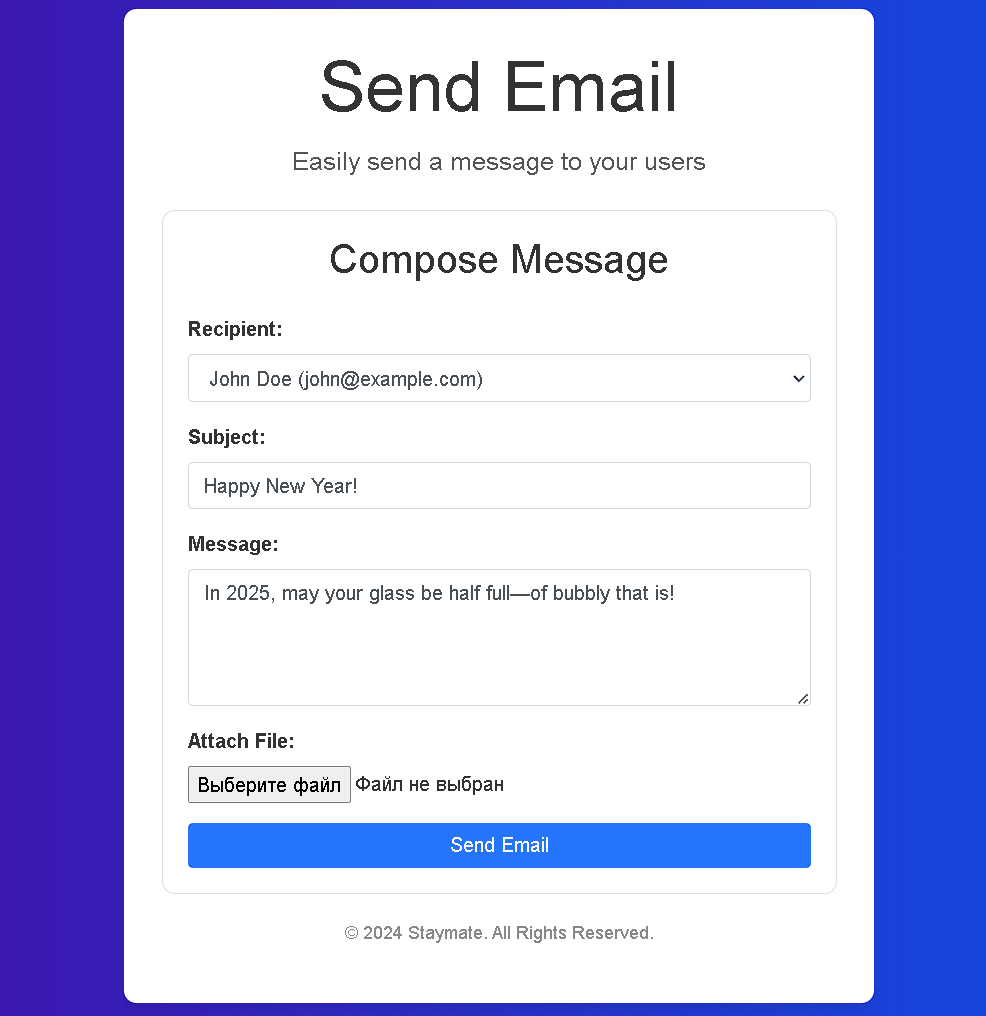
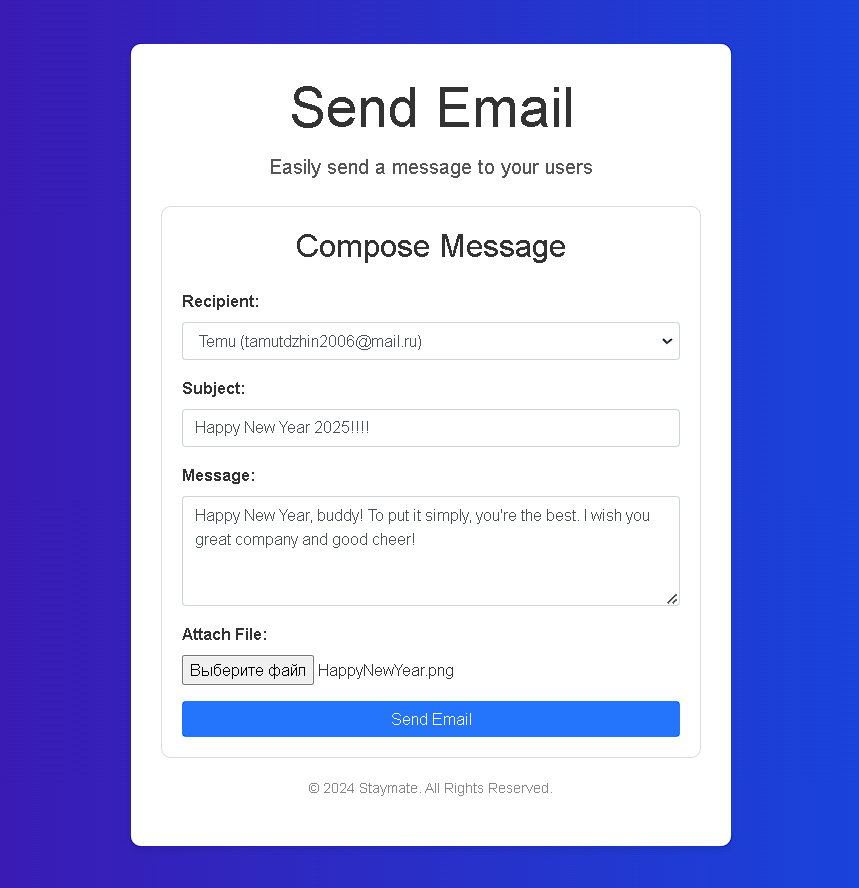
updated README.md. Deleted draft

diff --git a/README.md b/README.md
@@ -8,94 +8,38 @@ Stay Mate is a sophisticated software solution built to enhance and automate hot
 - **User Management**: Manage users, including their personal information and details.
 - **Room Management**: Add, update, view, and delete room details.
 - **Efficient Database Handling**: Uses PostgreSQL with GORM ORM for seamless database interactions.
+- **Sending emails**: Sending emails to users. Attaching files and images.
 
 ## **Team Members** 👥
-- **Temutjin Koszhanov** (SE-2308) 👨🏻💻
-- **Aida Zhalgassova** (SE-2307) 👩🏻💻
+- **[Temutjin Koszhanov](https://github.com/Temutjin2k)** (SE-2308) 👨🏻💻
+- **[Aida Zhalgassova](https://github.com/zhxauda9)** (SE-2307) 👩🏻💻
 
-## **API Endpoints** 📡
 
-### **Bookings** 📅
-
-| Method | Endpoint          | Description                          | Response                |
-|--------|-------------------|--------------------------------------|-------------------------|
-| **POST**   | `/bookings`       | Creates a new booking                | 201 Created             |
-| **GET**    | `/bookings`       | Retrieves all bookings               | 200 OK                  |
-| **GET**    | `/bookings/{id}`  | Retrieves a specific booking by ID   | 200 OK                  |
-| **PUT**    | `/bookings/{id}`  | Updates an existing booking          | 200 OK                  |
-| **DELETE** | `/bookings/{id}`  | Deletes a booking                    | 204 No Content          |
-
+## **Admin Panel** 🛠
+### **Bookings CRUD** 📅
+![Image alt](https://github.com/zhxauda9/StayMate/raw/main/assets/booking.png)
+![Image alt](https://github.com/zhxauda9/StayMate/raw/main/assets/booking_records.png)
 ### **Users** 👤
-
-| Method | Endpoint          | Description                          | Response                |
-|--------|-------------------|--------------------------------------|-------------------------|
-| **POST**   | `/user`           | Adds a new user                      | 201 Created             |
-| **GET**    | `/user`           | Retrieves all users                  | 200 OK                  |
-| **GET**    | `/user/{id}`      | Retrieves a specific user by ID      | 200 OK                  |
-| **PUT**    | `/user/{id}`      | Updates an existing user             | 200 OK                  |
-| **DELETE** | `/user/{id}`      | Deletes a user                       | 204 No Content          |
+![Image alt](https://github.com/zhxauda9/StayMate/raw/main/assets/users.png)
 
 ### **Rooms** 🛏
+![Image alt](https://github.com/zhxauda9/StayMate/raw/main/assets/rooms.png)
 
-| Method | Endpoint          | Description                          | Response                |
-|--------|-------------------|--------------------------------------|-------------------------|
-| **POST**   | `/rooms`          | Adds a new room                      | 201 Created             |
-| **GET**    | `/rooms`          | Retrieves all rooms                  | 200 OK                  |
-| **GET**    | `/rooms/{id}`     | Retrieves a specific room by ID      | 200 OK                  |
-| **PUT**    | `/rooms/{id}`     | Updates an existing room             | 200 OK                  |
-| **DELETE** | `/rooms/{id}`     | Deletes a room                       | 204 No Content          |
-
-## **CRUD Operations** 🛠
-
-### **Bookings CRUD** 📅
-- **Create**: `POST /bookings`  
-  Allows you to create a new booking with details like user ID, room ID, check-in and check-out dates.
-- **Read**:
-    - `GET /bookings`  
-      Retrieves a list of all bookings.
-    - `GET /bookings/{id}`  
-      Retrieves a specific booking by ID.
-- **Update**: `PUT /bookings/{id}`  
-  Allows you to update an existing booking, including modifying user, room, and date details.
-- **Delete**: `DELETE /bookings/{id}`  
-  Deletes an existing booking by ID.
-
-### **Users CRUD** 👤
-- **Create**: `POST /user`  
-  Allows you to add a new user with details like name, email, and other personal information.
-- **Read**:
-    - `GET /user`  
-      Retrieves a list of all users.
-    - `GET /user/{id}`  
-      Retrieves a specific user by ID.
-- **Update**: `PUT /user/{id}`  
-  Allows you to update an existing user’s details, such as email, name, or other information.
-- **Delete**: `DELETE /user/{id}`  
-  Deletes a user by ID.
-
-### **Rooms CRUD** 🛏
-- **Create**: `POST /rooms`  
-  Allows you to add a new room with details like room type, price, and availability.
-- **Read**:
-    - `GET /rooms`  
-      Retrieves a list of all rooms.
-    - `GET /rooms/{id}`  
-      Retrieves a specific room by ID.
-- **Update**: `PUT /rooms/{id}`  
-  Allows you to update an existing room’s details, such as price, availability, and room type.
-- **Delete**: `DELETE /rooms/{id}`  
-  Deletes a room by ID.
+### **Email sending** 📧
+![Image alt](https://github.com/zhxauda9/StayMate/raw/main/assets/emailSend.png)
 
 ## **Technologies Used** 🛠
 - **Programming Language**: Go (Golang) 1.22.3 🖥
 - **Database**: PostgreSQL 🗃
 - **Version Control**: Git 🧑💻
 - **Libraries**:
-    - **GORM**: For ORM (Object-Relational Mapping) 📦
-    - **Zerolog**: For structured logging 📜
+    - **[GORM](https://github.com/go-gorm/gorm)**: For ORM (Object-Relational Mapping) 📦
+    - **[Zerolog](https://github.com/rs/zerolog)**: For structured logging 📜
+    - **[go-mail/mail/v2](https://github.com/go-gomail/gomail)**: For sending emails 📧  
+    - **[x/time/rate](https://pkg.go.dev/golang.org/x/time/rate)**: For rate-limiting ⏱ 
 
 ## **How it Works** 🔄
-Stay Mate integrates a robust system for handling the key functions of a hotel. By using GORM for interacting with the PostgreSQL database, it allows efficient data management for users, rooms, and bookings. The clean and simple API design makes it easy to interact with and manage hotel resources.
+Stay Mate integrates a robust system for handling the key functions of a hotel. By using GORM for interacting with the PostgreSQL database, it allows efficient data management. The clean and simple API design makes it easy to interact with and manage hotel resources.
 
 ### **Booking Process** 📲
 1. Users can create, update, or delete bookings.
@@ -118,11 +62,18 @@ User data such as name, email, and booking history can be managed. The system he
    ```
 2. **Define enviromental variables. (You can use .env file)**:
    ```bash
-    DB_HOST="localhost"
-    DB_PORT="port"
-    DB_USER="user"
-    DB_PASSWORD="password"
-    DB_NAME="database"
+    # Variables for the database
+    DB_HOST=
+    DB_PORT=
+    DB_USER=
+    DB_PASSWORD=
+    DB_NAME=
+
+    # Variables for email sending
+    SMTP_HOST=
+    SMTP_PORT=
+    EMAIL=
+    PASSWORD=
    ```
 3. **Build the programm from the root directory**:
    ```bash
